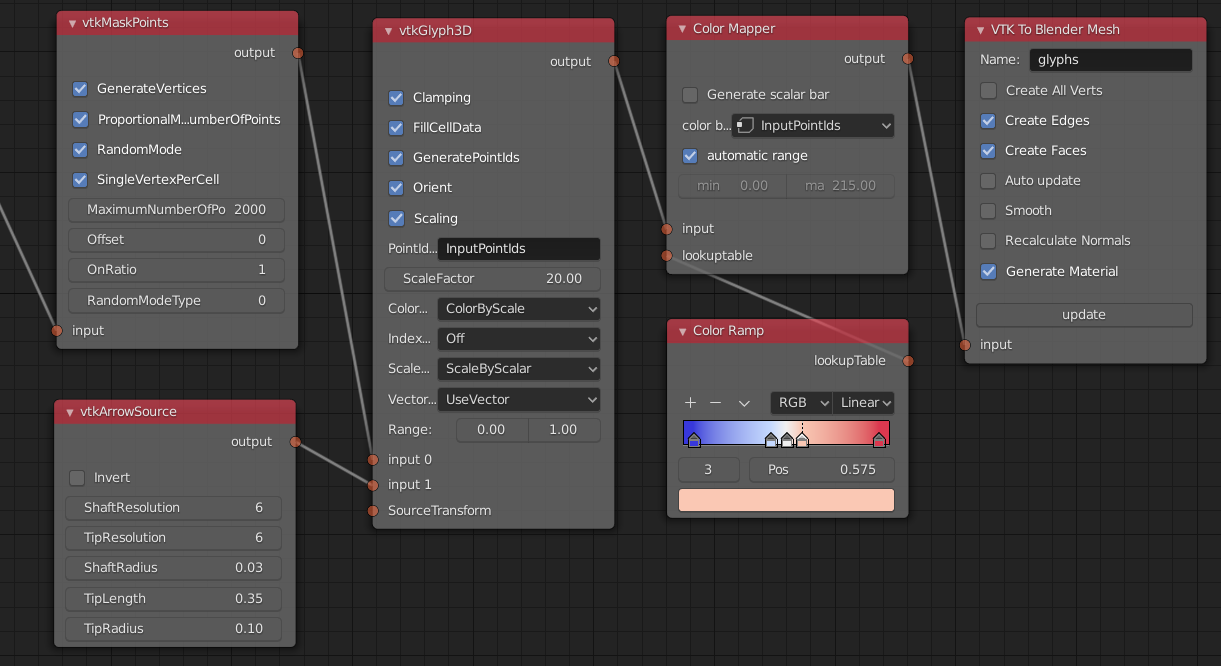
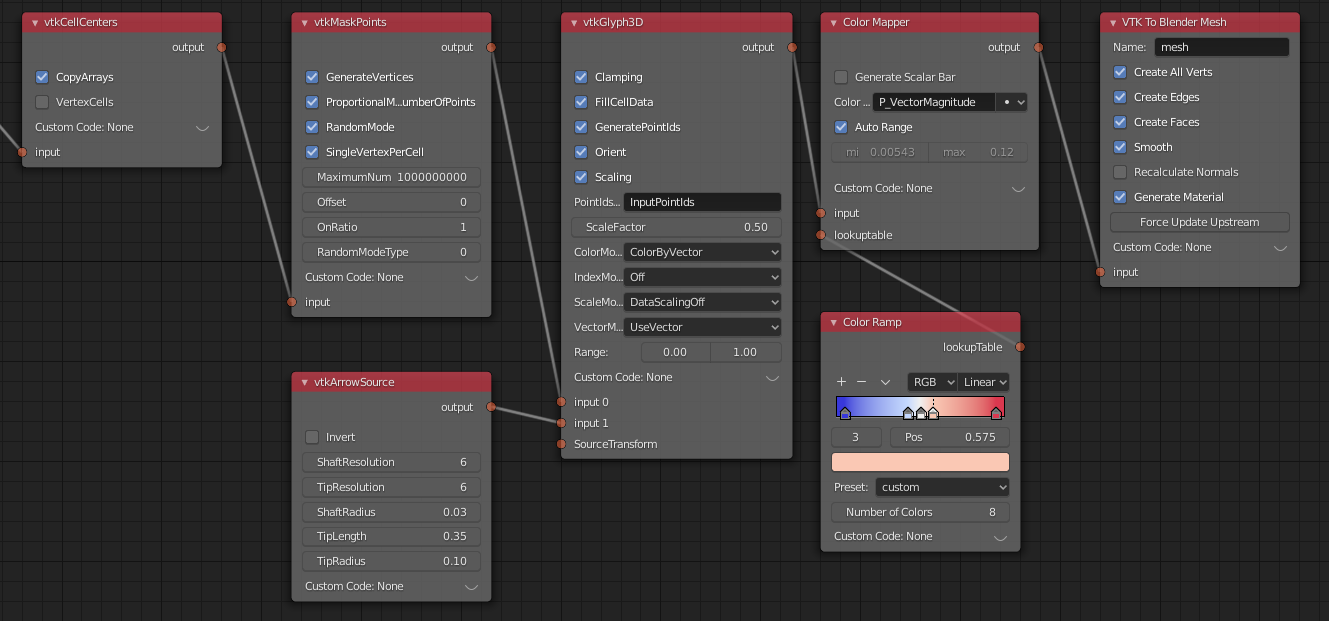
Docs: ug_nodes: Vector glyphs

diff --git a/docs/ug_nodes.rst b/docs/ug_nodes.rst
@@ -150,8 +150,9 @@ Vector Glyphs
 -------------
 
 Glyphs (like one produced by *vtkArrowSource*) can be placed at
-points, oriented and scaled by *vtkGlyph3D* node. This example shows
-how to color glyphs by velocity magnitude.
+points, oriented and scaled by *vtkGlyph3D* node. This node tree
+example named *cubeflow_vector_glyphs* shows how to color glyphs by
+velocity magnitude.
 
 * Add *vtkCellCenters* node to get points of cell centers.
 * Add *vtkMaskPoints* node, and adjust **MaximumNumberOfPoints** to a
@@ -159,17 +160,16 @@ how to color glyphs by velocity magnitude.
   points). It is good idea to use a small value for maximum number
   of points while tuning, so that calculation does not take a long
   time.
-* Add *vtkGlyph3D* node, and set **ScaleFactor** to 20, and
-  **ColorMode** to ColorByVector.
+* Add *vtkGlyph3D* node, and set **ScaleFactor** to 0.5,
+  **ColorMode** to ColorByVector, and **ScaleMode** to DataScalingOff.
 * Connect *vtkArrowSource* to **input 1**, and add *Color Mapper*,
   *Color Ramp*, and *VTK To Blender Mesh* (with Generate Material enabled).
-* Run *Update*, select *Vector Magnitude* in *Color Mapper* node, and
-  run *Update* again.
+* Run *Update Node* on the final node.
 
 .. note::
 
-   Selecting a vector field to *color by* in the *Color Mapper* node
-   will only use the first vector component. If vector magnitude is
+   Selecting a vector field to *Color By* in the *Color Mapper* node
+   will give wrong results. If vector magnitude is
    not generated by a VTK operator (like *vtkGlyph3D* does here),
    you can use *vtkArrayCalculator* upstream to generate it, see
    `Field Data Calculations`_.
